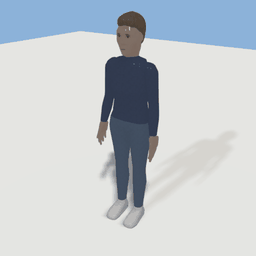
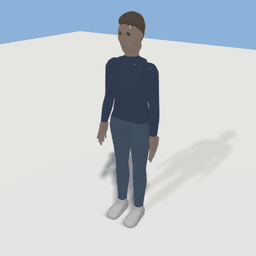
People get a neck: 7 heads tall, longer necks, a jaw with angles (geogen.11.5.38.2)
- head_units (default 7, was the skeleton's fixed 6.5) is a body param passed
  to the skeleton; the sculpt, drawn for 6.5, scales with it (hs). At 6.5 the
  head was 1/6.5 of the height and the chin sat 4 cm over the neck's base:
  in profile the jaw rested on the trunk. Every preset's neck is 2 cm longer
  (the skeleton hangs the neck from the Head joint, which rose): chin to neck
  base 6-7 cm.
- head.py: the jaw's angles below the ears, so the face comes down from the
  cheekbones and turns in to the chin instead of narrowing into the neck,
  and the neck blends into the jaw over 1.4 cm (was 3): the underside of
  the jaw reads as a plane, not a funnel.
- A skirt's start cap takes the body's weights from the few vertices right
  under it, unsmoothed (smoothed, the pelvis leaked in: curvy dress crouched
  poked 6.6 mm at the back of the waist).

Default tier passes (3212); clipping/drape/arms/humanoid --all pass;
baseline moves by at most 0.1 mm.

diff --git a/src/geogen/generators/head.py b/src/geogen/generators/head.py
@@ -89,6 +89,10 @@ class HeadShape:
         add([0, my + 0.008, 0.012], [0.07 * jaw, 0.064, 0.082], 0.045)
         add([0, my - 0.032, 0.05 + 0.006 * f["chin"]], [0.026 * (0.8 + 0.2 * jaw), 0.022, 0.03 + 0.006 * f["chin"]],
             0.025)
+        # The jaw's angles below the ears: the face comes down from the cheekbones and turns in
+        # to the chin there, rather than narrowing all the way down into the neck.
+        for side in (-1, 1):
+            add([side * 0.05 * jaw, my - 0.012, -0.012], [0.024, 0.03, 0.036], 0.03)
         # Cheekbones, brow ridge.
         for side in (-1, 1):
             add([side * 0.044, -0.026, 0.044], [0.032, 0.026, 0.034 * f["cheeks"]], 0.045)
@@ -126,8 +130,9 @@ class HeadShape:
 
             add(center, [0.015 * e, 0.034 * e, 0.034 * e], 0.008, ear)
         # The neck, blending into the underside of the jaw.
+        # (a narrow blend: the jaw's underside reads as a plane over the neck, not a funnel into it)
         d = _smin(d, _capsule(p, [0, -self.neck_drop, -0.012], [0, my - 0.01, -0.016],
-                              self.neck_radius, self.neck_radius * 1.05), 0.03)
+                              self.neck_radius, self.neck_radius * 1.05), 0.014)
         return (d * self.s).reshape(points.shape[:-1])
 
 

diff --git a/src/geogen/generators/humanoid.py b/src/geogen/generators/humanoid.py
@@ -665,7 +665,7 @@ def leg_weights(shell: Mesh, skeleton: Skeleton, body: Mesh | None = None, rise:
         # The start cap takes as much of the body's weights as is on bones other than the pelvis
         # and legs (bent forward, the spine would take the skin out through a cap on the Hips).
         under = Mesh(shell.vertices.copy(), shell.faces)
-        transfer_weights(under, body)
+        transfer_weights(under, body, neighbours=4, smooth=0)      # (the skin right under it: smoothed, the pelvis leaks in)
         body_dense = np.zeros_like(dense)
         np.put_along_axis(body_dense, under.joints, under.weights, axis=1)
         share = 1.0 - body_dense[:, [names.index(n) for n in ("Hips", "LeftUpperLeg", "RightUpperLeg")]].sum(axis=1)

diff --git a/docs/dev/characters.md b/docs/dev/characters.md
@@ -16,7 +16,7 @@ Humanoid bodies (`generators/humanoid.py`, `assets/characters/humanoid.yaml`): a
 - Transition clips (`generator: transition`, `from`/`to` poses): `sit_down`, `stand_up`, `lie_down`, `get_up`. They also move the root: `meta.root` (times, positions, rotations) is its path from the approach point to the pose's root placement, in the frame of where the character ends up (`clips.root_at`). Params: `approach`, `anchor_height`, `plant` (leg IK keeps the feet where they stand), `lean`, `via`/`via_at` (a pose to pass through), `move`/`turn` (the shares of the clip the hips travel and the body turns in). `npc.gd` plays the one matching a pose change and follows the path, blending in what differs from the actual seat (`_advance_transition`).
 - `body.clips`: procedural clips (`generators/clips.py`) over the stand pose (walk, idle, and a one-shot `wave`). Work clips (`generator: gesture`: `stir`, `chop`, `wipe`, `write`) are declared, not coded: over one of the body's IK poses (`work_counter`: standing at a worktop of `worktop_height`, 0.9 m, both hands resting on it), each moving hand's target follows `lift` plus a closed `path` of [x, y, z] m offsets gone round `cycles` times a loop plus a `drift` path gone round once, and `bones` add [x, y, z] degree paths (breathing, a nod); keys are evenly spaced and joined by periodic Catmull-Rom (`clips.loop_path`). The pose is solved once and only the moving hands per frame; hands left resting are the clip's `rests`. `Clip.samples` (build only) is how many frames `arms.clear_arms` and `drape.fit` look at: 4 for a gesture clip. `walk` (`speed`, `duty`, `knee_drop`, `bob`, `hip_sway`, `pelvis_yaw`, `chest_yaw`, `arm_swing`, `lift`, `heel_raise`) is an in-place cycle with ground-locked stance feet via two-bone IK (`core/ik.py`), the stride chosen from leg reach, and `meta.speed`/`stride` exported in extras. `idle` is breathing, weight shift and a glance. Clips key every bone plus the Hips translation. Generating a body's 11 clips takes about 0.08 s (FK and IK are array maths, `docs/dev/core.md`); a whole feminine body builds in about 0.6 s in jeans and 1.4 s in a skirt (2026-10-18, geogen.11.5.29).
 - Poses take `hips: [x, y, z]` (pelvis offset) and `ik: {LeftFoot|RightFoot|LeftHand|RightHand: {target, pole, flat}, mirror: true}`. Targets are in the body frame, solved per body by `core/ik.solve_limb`, so every preset fits. Humanoid poses: stand, sit and sit_at_table (feet planted for the `seat_height` / `table_height` params), lie, lean_on_sill (`sill_height`), reach_low, look, t_pose. The NPC actions use stand, sit and lie.
-- Head (`generators/head.py`, `body.head`): a sculpted signed-distance head (cranium, jaw, chin, cheekbones, brow ridge, eye sockets, nose, lips, ears and a neck stub, smooth-unioned in the head frame) polygonised by surface nets on a 4 mm grid (evaluated only near the surface), simplified by manifold3d to within 2 mm of the sculpt, relaxed so its triangles are round (`relax`) and shaded with the SDF's normals (`sdf_normals`): about 1.3k triangles in ~0.08 s. Shape params `nose`, `chin`, `brow`, `cheeks`, `lips`, `ears` (1 = neutral; the gender presets set them) and `jaw_width`. The torso chain ends inside it (Neck 0.7) and it is unioned on after the body's decimation (`max_triangles` is the trunk and limbs only), weighted to Head, handing over to Neck below the jaw (`head_weights`). Sockets, nose and lips are placed from the face box with the face texture's `eye_v`, `eye_spacing` and `mouth_v`, so paint and sculpt agree. The painted face: `body.face` holds a `box` plus params for `textures/character.FaceTextureGenerator` (eye_color, lashes, lip_strength, blush, freckles, brows, and `age` (smile lines, crow's feet, under-eye and forehead lines), `stubble`, `smile`); it paints on a `_Canvas` in face units (true proportions: `aspect` is the box's height over width, quantized to 0.05 so faces share textures across heights), 512 texels square (`humanoid.FACE_TEXTURE`), ~0.3 s a face: almond eyes with lid, crease, shaded sclera and an iris with a limbal ring and fibres, brows of hair strokes, lip colour over the sculpted lips. `generators/humanoid.apply_face` gives the front of the head its own material slot with planar 0-1 UVs, the one exception to metric UVs.
+- Head (`generators/head.py`, `body.head`): a sculpted signed-distance head (cranium, jaw with its angles below the ears, chin, cheekbones, brow ridge, eye sockets, nose, lips, ears and a neck stub blended in narrowly so the jaw's underside reads, smooth-unioned in the head frame) polygonised by surface nets on a 4 mm grid (evaluated only near the surface), simplified by manifold3d to within 2 mm of the sculpt, relaxed so its triangles are round (`relax`) and shaded with the SDF's normals (`sdf_normals`): about 1.3k triangles in ~0.08 s. Shape params `nose`, `chin`, `brow`, `cheeks`, `lips`, `ears` (1 = neutral; the gender presets set them) and `jaw_width`. Bodies are 7 heads tall (`head_units`, passed to the skeleton; the sculpt is drawn for 6.5 and scaled by `hs`): at 6.5 the head was big and the chin sat 4 cm over the neck's base, leaving no neck (2026-10-19, geogen.11.5.38.2). The torso chain ends inside it (Neck 0.7) and it is unioned on after the body's decimation (`max_triangles` is the trunk and limbs only), weighted to Head, handing over to Neck below the jaw (`head_weights`). Sockets, nose and lips are placed from the face box with the face texture's `eye_v`, `eye_spacing` and `mouth_v`, so paint and sculpt agree. The painted face: `body.face` holds a `box` plus params for `textures/character.FaceTextureGenerator` (eye_color, lashes, lip_strength, blush, freckles, brows, and `age` (smile lines, crow's feet, under-eye and forehead lines), `stubble`, `smile`); it paints on a `_Canvas` in face units (true proportions: `aspect` is the box's height over width, quantized to 0.05 so faces share textures across heights), 512 texels square (`humanoid.FACE_TEXTURE`), ~0.3 s a face: almond eyes with lid, crease, shaded sclera and an iris with a limbal ring and fibres, brows of hair strokes, lip colour over the sculpted lips. `generators/humanoid.apply_face` gives the front of the head its own material slot with planar 0-1 UVs, the one exception to metric UVs.
 - Tints: skin tone (`skin_tone` 0..1 over `SKIN_TONES`) and hair colour (`hair_color` choice) are vertex colours over the shared `skin`/`hair` materials. Godot's `world_loader` turns on `vertex_color_use_as_albedo` for surfaces with COLOR_0.
 - Hair (`generators/hair.py`): `body.hair_styles` (buzz, crop, pixie, bob, long, ponytail, bun, afro) are `sculpt:` blocks, signed-distance solids in the head's frame built like the head (surface nets, simplified to 3.5 mm, relaxed, SDF normals) as a separate skinned `hair` node: `cover` grows hair from the scalp above a hairline (heights at the front, temple, above the ear and the nape; `thickness` [crown, sides, back]) that thins over `taper` and dives under the skin, so the hairline is where the surfaces cross (no helmet rim, nothing coplanar); `shapes` (ellipsoids, tapered capsules) are smooth-unioned on (fringe, bob volume, long fall, ponytail, bun), `cuts` carved out (the face), `ridges` add clumps. Skinned to Head (`weights: back`: a long fall goes with UpperChest below the neck), vertex-coloured darker toward the scalp, UVs with strands running down. ~600-1.3k triangles, ~0.15 s. A style without `sculpt` is still built from `chains` + `cut` (`build_hair`, as loose garments are). Choice params are `hair_style`, `hair_color`, `eye_color`; params may declare `choices:` (strings, whole-value `"{name}"` only).
 - Clothing (`assets/clothing/*.yaml`, `kind: garment`):

diff --git a/docs/catalogue/assets/humanoid.md b/docs/catalogue/assets/humanoid.md
@@ -5,7 +5,7 @@
 <img src="../img/humanoid.png" width="256" alt="humanoid"> <img src="../img/humanoid_views.png" width="512" alt="humanoid: front and side">
 
 Parametric humanoid body: the humanoid skeleton (assets/skeletons/humanoid.yaml)
-skinned by ring-lofted chains (generators/ringloft.py). Stylized ~6.5 heads,
+skinned by ring-lofted chains (generators/ringloft.py). Stylized ~7 heads,
 low-poly, one watertight skinned mesh. Continuous shape params; `presets`
 are named bundles (params: {preset: feminine, height: 1.6}: explicit values
 win). Built in the relaxed `stand` pose over the T-pose rest.
@@ -36,6 +36,7 @@ place:
 | `limb_scale` | `1` |  | body-type multiplier on limb (presets stack without overriding it) |
 | `belly` | `0` |  | 0 .. 1: a fuller waist and stomach |
 | `head_size` | `1` |  |  |
+| `head_units` | `7` |  | height in head lengths (6.5 read big-headed and left no neck) |
 | `jaw_width` | `1` |  |  |
 | `nose` | `1` |  | head sculpt (generators/head.py): feature sizes, 1 = neutral |
 | `chin` | `1` |  |  |
@@ -43,7 +44,7 @@ place:
 | `cheeks` | `1` |  |  |
 | `lips` | `1` |  |  |
 | `ears` | `1` |  |  |
-| `neck_length` | `0.1` |  |  |
+| `neck_length` | `0.12` |  |  |
 | `hand_size` | `1` |  |  |
 | `foot_length` | `0.24` |  |  |
 | `skin_tone` | `0.25` |  | 0 very light .. 1 very dark (vertex colour over `skin`) |
@@ -70,21 +71,21 @@ place:
 
 ## Size
 
-0.533 x 1.742 x 0.39 m (x, y, z); geometry (-0.267, -0.009, -0.123) to (0.267, 1.742, 0.195) from the origin; 6924 triangles
+0.533 x 1.741 x 0.39 m (x, y, z); geometry (-0.267, -0.009, -0.114) to (0.267, 1.741, 0.195) from the origin; 7070 triangles
 
 ## Presets
 
-- feminine: height=1.66, build=0.42, shoulder_width=0.3, hip_width=0.19, hips=1.12, waist=0.8, bust=1, glutes=0.9, limb=0.88, jaw_width=0.86, nose=0.85, chin=0.85, brow=0.3, cheeks=1.1, lips=1.15, neck_length=0.1, hand_size=0.92, foot_length=0.23, hair_style=long, outfit=casual_f, top_color=coral, bottom_color=navy, shoe_color=black, lashes=1, lip_strength=0.7, blush=0.35, brow_thickness=0.8, brow_arch=1.2
-- masculine: height=1.79, build=0.55, shoulder_width=0.38, hip_width=0.17, hips=0.94, waist=0.84, bust=0, glutes=0.3, limb=1.1, jaw_width=1.12, nose=1.15, chin=1.25, brow=1.4, cheeks=0.9, lips=0.8, neck_length=0.11, hand_size=1.05, foot_length=0.26, hair_style=crop, hair_color=dark_brown, outfit=jeans_tee, top_color=grey, bottom_color=denim, shoe_color=white, lashes=0, lip_strength=0.12, blush=0, brow_thickness=1.45, brow_arch=0.4
+- feminine: height=1.66, build=0.42, shoulder_width=0.3, hip_width=0.19, hips=1.12, waist=0.8, bust=1, glutes=0.9, limb=0.88, jaw_width=0.86, nose=0.85, chin=0.85, brow=0.3, cheeks=1.1, lips=1.15, neck_length=0.12, hand_size=0.92, foot_length=0.23, hair_style=long, outfit=casual_f, top_color=coral, bottom_color=navy, shoe_color=black, lashes=1, lip_strength=0.7, blush=0.35, brow_thickness=0.8, brow_arch=1.2
+- masculine: height=1.79, build=0.55, shoulder_width=0.38, hip_width=0.17, hips=0.94, waist=0.84, bust=0, glutes=0.3, limb=1.1, jaw_width=1.12, nose=1.15, chin=1.25, brow=1.4, cheeks=0.9, lips=0.8, neck_length=0.13, hand_size=1.05, foot_length=0.26, hair_style=crop, hair_color=dark_brown, outfit=jeans_tee, top_color=grey, bottom_color=denim, shoe_color=white, lashes=0, lip_strength=0.12, blush=0, brow_thickness=1.45, brow_arch=0.4
 - slim: build=0.1, limb_scale=0.92
 - athletic: build=0.35, limb_scale=1.08, glutes=0.65
 - curvy: build=0.6, hips=1.28, waist=0.8, glutes=1
-- heavy: build=1.3, limb_scale=1.12, belly=0.85, neck_length=0.085
+- heavy: build=1.3, limb_scale=1.12, belly=0.85, neck_length=0.105
 - hourglass: build=0.5, bust=1.7, hips=1.42, waist=0.66, glutes=1.4
 - petite: height=1.53, hand_size=0.88, foot_length=0.215, head_size=1.04, leg_ratio=0.52
 - tall: height=1.9, leg_ratio=0.545, foot_length=0.28, hand_size=1.08
-- stocky: height=1.64, build=0.75, limb_scale=1.15, belly=0.3, leg_ratio=0.505, neck_length=0.08
-- lanky: height=1.86, build=0.1, limb_scale=0.9, leg_ratio=0.555, neck_length=0.12
+- stocky: height=1.64, build=0.75, limb_scale=1.15, belly=0.3, leg_ratio=0.505, neck_length=0.1
+- lanky: height=1.86, build=0.1, limb_scale=0.9, leg_ratio=0.555, neck_length=0.14
 
 ## Poses
 

diff --git a/docs/catalogue/README.md b/docs/catalogue/README.md
@@ -369,7 +369,7 @@ place:
 | Asset | What it is | Params |
 | --- | --- | --- |
 | [capsule](assets/capsule.md) | Placeholder character body: a capsule with a visor showing which way it faces (+Z). | `height`, `radius` |
-| [humanoid](assets/humanoid.md) | Parametric humanoid body: the humanoid skeleton (assets/skeletons/humanoid.yaml) skinned by ring-lofted chains (generators/ringloft.py). | `height`, `build`, `shoulder_width`, `hip_width`, `leg_ratio`, `hips`, `waist`, `bust`, `glutes`, `limb`, `limb_scale`, `belly`, `head_size`, `jaw_width`, `nose`, `chin`, `brow`, `cheeks`, `lips`, `ears`, `neck_length`, `hand_size`, `foot_length`, `skin_tone`, `hair_style`, `hair_color`, `eye_color`, `outfit`, `top_color`, `bottom_color`, `shoe_color`, `lashes`, `lip_strength`, `blush`, `freckles`, `age`, `stubble`, `smile`, `brow_thickness`, `brow_arch`, `seat_height`, `table_height`, `sill_height`, `worktop_height` |
+| [humanoid](assets/humanoid.md) | Parametric humanoid body: the humanoid skeleton (assets/skeletons/humanoid.yaml) skinned by ring-lofted chains (generators/ringloft.py). | `height`, `build`, `shoulder_width`, `hip_width`, `leg_ratio`, `hips`, `waist`, `bust`, `glutes`, `limb`, `limb_scale`, `belly`, `head_size`, `head_units`, `jaw_width`, `nose`, `chin`, `brow`, `cheeks`, `lips`, `ears`, `neck_length`, `hand_size`, `foot_length`, `skin_tone`, `hair_style`, `hair_color`, `eye_color`, `outfit`, `top_color`, `bottom_color`, `shoe_color`, `lashes`, `lip_strength`, `blush`, `freckles`, `age`, `stubble`, `smile`, `brow_thickness`, `brow_arch`, `seat_height`, `table_height`, `sill_height`, `worktop_height` |
 
 ## Other
 

diff --git a/docs/clothing.md b/docs/clothing.md
@@ -89,7 +89,8 @@ watertight.
 - `leg_weights` skins it: the waist to the Hips, handing over to the two thighs between a height
   above the hip joints and one below. See "Weights" below for why it is shaped as it is. The start
   cap above the first key ring, tucked under the top, takes the body's weights on bones other than
-  the pelvis and legs (the spine): on the Hips alone, a back bent far forward came out through it.
+  the pelvis and legs (the spine), from the few body vertices right under it, unsmoothed: on the
+  Hips, or smoothed with the pelvis below, a back bent far forward came out through it.
 - `drape.fit` works out where the cloth should really be in each pose and stores the difference
   as morph targets.
 
